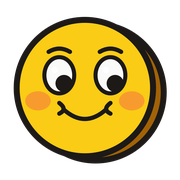
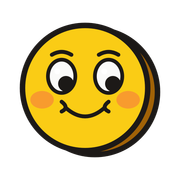
feat: add PWA support with service worker, offline page, and caching strategy
- Added service worker (sw.js) for caching static assets and handling fetch requests.
- Created offline.html to display when the app is offline.
- Included PWARegistrar component to register the service worker in production.
- Added monochrome icon (moico-monochrome-512.png) for PWA manifest.

Changed region(s): [[0.0556, 0.0833, 0.9444, 0.9167]]

diff --git a/public/sw.js b/public/sw.js
@@ -1,0 +1,81 @@
+const CACHE_VERSION = 'moneda-pwa-v1';
+const STATIC_CACHE = `${CACHE_VERSION}-static`;
+const RUNTIME_CACHE = `${CACHE_VERSION}-runtime`;
+
+const PRECACHE_URLS = [
+  '/offline.html',
+  '/manifest.json',
+  '/apple-touch-icon.png',
+  '/moico-192.png',
+  '/moico-512.png',
+  '/moico-maskable-512.png',
+  '/moico-monochrome-512.png',
+];
+
+self.addEventListener('install', (event) => {
+  event.waitUntil(
+    caches
+      .open(STATIC_CACHE)
+      .then((cache) => cache.addAll(PRECACHE_URLS))
+      .then(() => self.skipWaiting())
+  );
+});
+
+self.addEventListener('activate', (event) => {
+  event.waitUntil(
+    caches
+      .keys()
+      .then((keys) =>
+        Promise.all(
+          keys
+            .filter((key) => key.startsWith('moneda-pwa-') && !key.startsWith(CACHE_VERSION))
+            .map((key) => caches.delete(key))
+        )
+      )
+      .then(() => self.clients.claim())
+  );
+});
+
+self.addEventListener('fetch', (event) => {
+  const { request } = event;
+
+  if (request.method !== 'GET') return;
+
+  const url = new URL(request.url);
+  if (url.origin !== self.location.origin || url.pathname.startsWith('/api/')) {
+    return;
+  }
+
+  if (request.mode === 'navigate') {
+    event.respondWith(
+      fetch(request).catch(() => caches.match('/offline.html'))
+    );
+    return;
+  }
+
+  if (
+    request.destination === 'image' ||
+    request.destination === 'font' ||
+    request.destination === 'style' ||
+    request.destination === 'script' ||
+    url.pathname.startsWith('/_next/static/')
+  ) {
+    event.respondWith(staleWhileRevalidate(request));
+  }
+});
+
+async function staleWhileRevalidate(request) {
+  const cache = await caches.open(RUNTIME_CACHE);
+  const cached = await cache.match(request);
+
+  const fresh = fetch(request)
+    .then((response) => {
+      if (response.ok) {
+        cache.put(request, response.clone());
+      }
+      return response;
+    })
+    .catch(() => cached);
+
+  return cached || fresh;
+}

diff --git a/public/offline.html b/public/offline.html
@@ -1,0 +1,68 @@
+<!doctype html>
+<html lang="pt-BR">
+  <head>
+    <meta charset="utf-8" />
+    <meta name="viewport" content="width=device-width, initial-scale=1, viewport-fit=cover" />
+    <meta name="theme-color" content="#F8F9FB" />
+    <title>Moneda offline</title>
+    <style>
+      :root {
+        color-scheme: light;
+        font-family: system-ui, -apple-system, BlinkMacSystemFont, "Segoe UI", sans-serif;
+        background: #f8f9fb;
+        color: #1a1d23;
+      }
+
+      body {
+        min-height: 100svh;
+        margin: 0;
+        display: grid;
+        place-items: center;
+        padding: 24px;
+      }
+
+      main {
+        width: min(100%, 360px);
+      }
+
+      img {
+        display: block;
+        width: 72px;
+        height: 72px;
+        margin-bottom: 24px;
+      }
+
+      h1 {
+        margin: 0 0 10px;
+        font-size: 28px;
+        line-height: 1.05;
+      }
+
+      p {
+        margin: 0 0 24px;
+        color: #6b7280;
+        font-size: 16px;
+        line-height: 1.5;
+      }
+
+      button {
+        min-height: 48px;
+        border: 0;
+        border-radius: 999px;
+        background: #5bbf8e;
+        color: #ffffff;
+        padding: 0 20px;
+        font: inherit;
+        font-weight: 700;
+      }
+    </style>
+  </head>
+  <body>
+    <main>
+      <img src="/moico-192.png" alt="" />
+      <h1>Sem conexao agora</h1>
+      <p>O Moneda esta instalado, mas precisa de internet para carregar dados financeiros atualizados.</p>
+      <button type="button" onclick="window.location.reload()">Tentar novamente</button>
+    </main>
+  </body>
+</html>

diff --git a/src/components/PWARegistrar.tsx b/src/components/PWARegistrar.tsx
@@ -1,0 +1,30 @@
+'use client';
+
+import { useEffect } from 'react';
+
+export default function PWARegistrar() {
+  useEffect(() => {
+    if (
+      process.env.NODE_ENV !== 'production' ||
+      !('serviceWorker' in navigator)
+    ) {
+      return;
+    }
+
+    const register = () => {
+      navigator.serviceWorker.register('/sw.js', { scope: '/' }).catch(() => {
+        // PWA support should never block the app shell.
+      });
+    };
+
+    if (document.readyState === 'complete') {
+      register();
+      return;
+    }
+
+    window.addEventListener('load', register, { once: true });
+    return () => window.removeEventListener('load', register);
+  }, []);
+
+  return null;
+}

diff --git a/src/app/layout.tsx b/src/app/layout.tsx
@@ -1,5 +1,6 @@
 import type { Metadata, Viewport } from 'next';
 import { DM_Sans, Epilogue } from 'next/font/google';
+import PWARegistrar from '@/components/PWARegistrar';
 import { ThemeProvider } from '@/components/ThemeProvider';
 import './globals.css';
 
@@ -19,6 +20,24 @@ export const metadata: Metadata = {
   title: 'Moneda - Seu dinheiro, finalmente claro.',
   description: 'Controle seus gastos de forma simples e sem julgamentos.',
   manifest: '/manifest.json',
+  applicationName: 'Moneda',
+  appleWebApp: {
+    capable: true,
+    title: 'Moneda',
+    statusBarStyle: 'default',
+  },
+  formatDetection: {
+    telephone: false,
+  },
+  icons: {
+    icon: [
+      { url: '/moico-192.png', sizes: '192x192', type: 'image/png' },
+      { url: '/moico-512.png', sizes: '512x512', type: 'image/png' },
+    ],
+    apple: [
+      { url: '/apple-touch-icon.png', sizes: '180x180', type: 'image/png' },
+    ],
+  },
 };
 
 export const viewport: Viewport = {
@@ -58,10 +77,12 @@ export default function RootLayout({
     >
       <head>
         <script dangerouslySetInnerHTML={{ __html: themeScript }} />
-        <link rel="apple-touch-icon" sizes="180x180" href="/moico-180.png" />
       </head>
       <body className="bg-[#F8F9FB] min-h-full antialiased font-body">
-        <ThemeProvider>{children}</ThemeProvider>
+        <ThemeProvider>
+          <PWARegistrar />
+          {children}
+        </ThemeProvider>
       </body>
     </html>
   );

diff --git a/middleware.ts b/middleware.ts
@@ -50,6 +50,6 @@ export async function middleware(request: NextRequest) {
 
 export const config = {
   matcher: [
-    '/((?!_next/static|_next/image|favicon\\.ico|manifest\\.json|.*\\.(?:svg|png|jpg|jpeg|gif|webp)$).*)',
+    '/((?!_next/static|_next/image|favicon\\.ico|manifest\\.json|sw\\.js|offline\\.html|.*\\.(?:svg|png|jpg|jpeg|gif|webp)$).*)',
   ],
 };

diff --git a/PWA.md b/PWA.md
@@ -1,0 +1,45 @@
+# PWA do Moneda
+
+Este app esta preparado para instalacao como PWA em iOS/iPadOS e Android, com cache conservador para preservar dados financeiros.
+
+## O que fica habilitado
+
+- Manifest em `public/manifest.json` com `start_url`, `scope`, `display`, idioma, categoria e atalhos.
+- Metadata no `src/app/layout.tsx` para Apple Web App, icons e viewport com safe area.
+- Service worker em `public/sw.js`, registrado por `src/components/PWARegistrar.tsx` apenas em producao.
+- Pagina offline em `public/offline.html`.
+- Icones derivados do arquivo mestre `moico-png.png`.
+
+## Icones
+
+Arquivos principais:
+
+- `public/apple-touch-icon.png` - 180x180 opaco para iOS/iPadOS.
+- `public/moico-192.png` e `public/moico-512.png` - requisitos basicos de instalacao Android/Chrome.
+- `public/moico-maskable-512.png` - icone com safe zone para adaptive icons Android.
+- `public/moico-monochrome-512.png` - icone para themed icons Android.
+
+Tamanhos extras publicados no manifest: 72, 96, 128, 144, 152, 180, 192, 256, 384 e 512.
+
+## Estrategia de cache
+
+O service worker nao cacheia `/api/*` nem respostas de navegacao autenticadas. Isso evita guardar dados financeiros pessoais no cache do navegador.
+
+Ele faz cache de:
+
+- pagina offline;
+- manifest;
+- icones;
+- imagens, fontes, estilos, scripts e assets de `/_next/static/` com stale-while-revalidate.
+
+Quando o usuario abre uma rota sem internet, a requisicao tenta a rede primeiro e cai em `offline.html` se falhar.
+
+## Checklist de validacao
+
+1. Rodar `npm run build`.
+2. Servir a build com HTTPS ou localhost.
+3. Abrir DevTools > Application > Manifest e confirmar que nao ha erros de instalabilidade.
+4. Verificar Service Workers > `sw.js` ativo.
+5. Testar modo offline: rotas devem cair em `offline.html`, enquanto dados financeiros nao devem ser servidos de cache antigo.
+6. Em Android, conferir se o icone maskable nao corta o desenho.
+7. Em iOS/iPadOS, adicionar a tela inicial e conferir nome, splash/background e icone opaco.